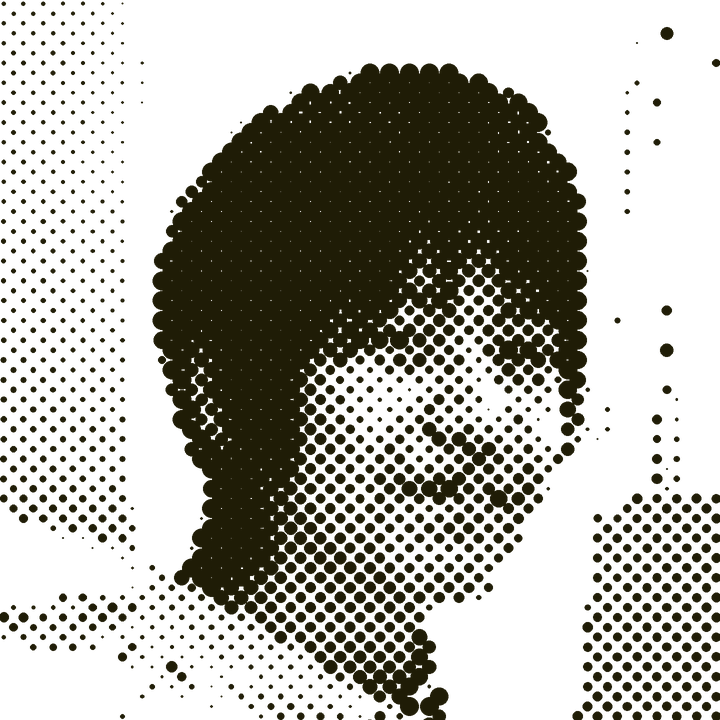
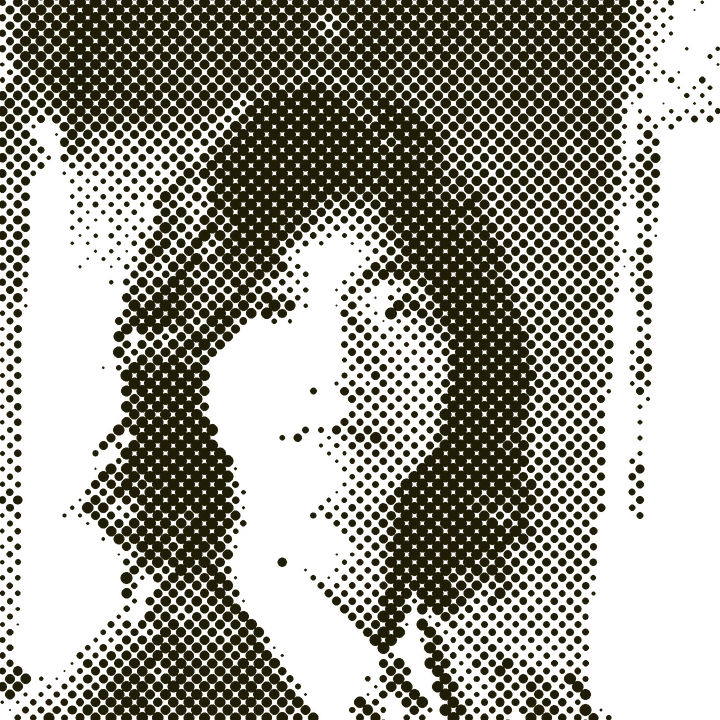
About: new photo with halftone dots layered over a yellow duotone image

diff --git a/index.html b/index.html
@@ -110,7 +110,11 @@
     <!-- ============ 关于（黄色色带 + 网点肖像） ============ -->
     <section id="about" class="band band-yellow">
       <div class="container about-grid">
-        <img src="assets/images/portrait-halftone.png" alt="Thomas Du 的网点肖像" class="halftone" width="720" height="720" loading="lazy" />
+        <!-- 网点肖像：底层是黑白照片（与黄色正片叠底），上面叠一层网点 -->
+        <figure class="halftone" role="img" aria-label="Thomas Du 的网点肖像">
+          <img src="assets/images/portrait-about.jpg" alt="" class="halftone-photo" width="900" height="900" loading="lazy" />
+          <img src="assets/images/portrait-halftone.png" alt="" class="halftone-dots" width="720" height="720" loading="lazy" />
+        </figure>
         <div class="about-text">
           <p class="about-hello">Hi, I'm Thomas</p>
           <h2 class="about-name">HAIHANG DU · THOMAS</h2>

diff --git a/css/style.css b/css/style.css
@@ -934,9 +934,33 @@ em {
   align-items: center;
 }
 .halftone {
+  position: relative;
   width: 100%;
-  height: auto;
   aspect-ratio: 1;
+  margin: 0;
+  overflow: hidden;
+  background: var(--yellow);
+  isolation: isolate;
+}
+.halftone img {
+  position: absolute;
+  inset: 0;
+  width: 100%;
+  height: 100%;
+  object-fit: cover;
+}
+/* 底层照片：黑白、提亮，再与黄色底正片叠底，变成黄黑双色 */
+.halftone-photo {
+  /* 照片已预先处理成提亮的黑白图 */
+  mix-blend-mode: multiply;
+}
+/* 上层网点：悬停时变淡，露出更多照片 */
+.halftone-dots {
+  mix-blend-mode: multiply;
+  transition: opacity 0.5s ease;
+}
+.halftone:hover .halftone-dots {
+  opacity: 0.45;
 }
 .about-text .about-hello {
   font-family: var(--font-hand);
